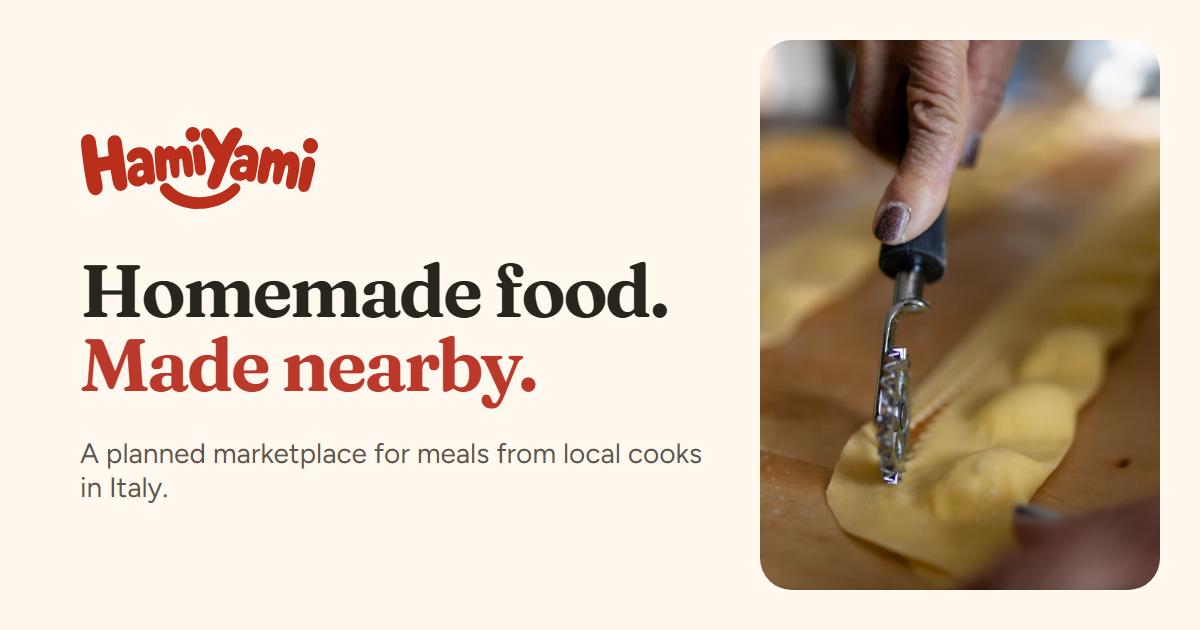
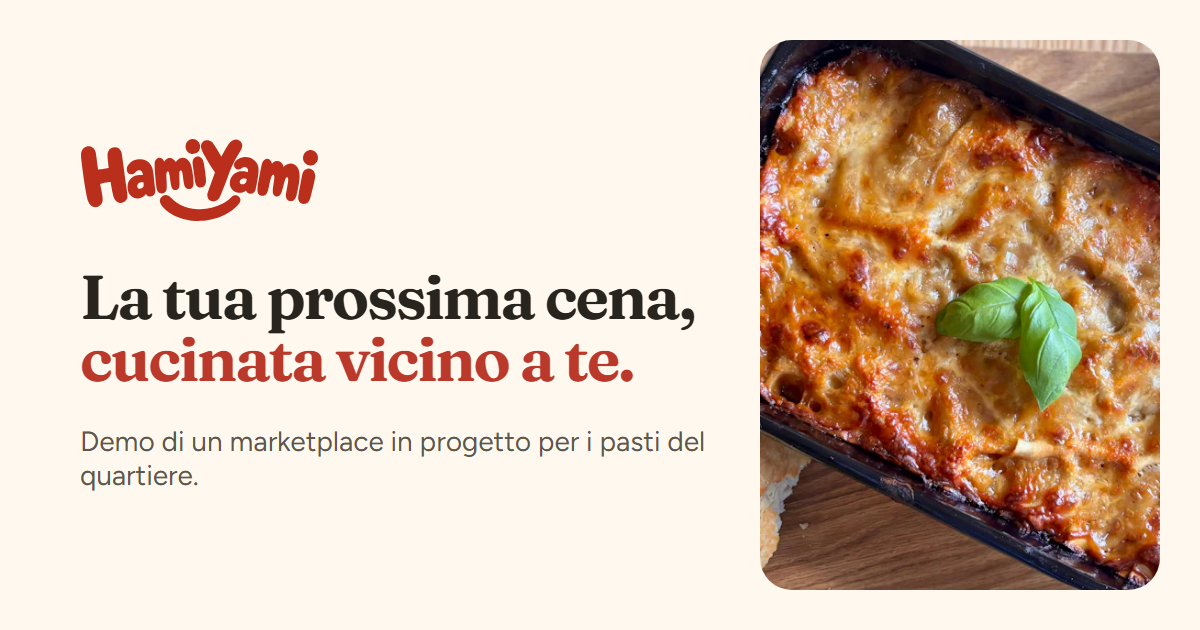
Refresh the sharing image and add optional social previews
The sharing image now carries the Italian dinner tagline over a finished
dish. Open Graph tags are emitted only when SITE_URL is set, since they
need absolute URLs. Restores the og-image render script.

diff --git a/scripts/og-image.html b/scripts/og-image.html
@@ -3,7 +3,7 @@
   Source for public/assets/images/og-image.png (1200×630 social sharing image).
   Re-render after edits with: npm run og-image   (needs Microsoft Edge or Chrome installed)
 -->
-<html lang="en">
+<html lang="it">
 <head>
   <meta charset="utf-8">
   <style>
@@ -19,7 +19,7 @@
     }
     .copy { display: flex; flex-direction: column; justify-content: center; padding: 0 36px 0 80px; }
     .wordmark { display: block; align-self: flex-start; width: auto; height: 84px; }
-    h1 { margin: 44px 0 0; font-family: "Fraunces", serif; font-weight: 650; font-size: 74px; line-height: 1; letter-spacing: -0.035em; }
+    h1 { margin: 44px 0 0; font-family: "Fraunces", serif; font-weight: 650; font-size: 62px; line-height: 1; letter-spacing: -0.035em; }
     h1 span { color: #BA392B; }
     p { margin: 34px 0 0; font-size: 28px; color: #5E574C; }
     .media { position: relative; }
@@ -29,9 +29,9 @@
 <body>
   <div class="copy">
     <img class="wordmark" src="../public/assets/brand/hamiyami-wordmark.svg" alt="">
-    <h1>Homemade food.<br><span>Made nearby.</span></h1>
-    <p>A planned marketplace for meals from local cooks in Italy.</p>
+    <h1>La tua prossima cena,<br><span>cucinata vicino a te.</span></h1>
+    <p>Demo di un marketplace in progetto per i pasti del quartiere.</p>
   </div>
-  <div class="media"><img src="../public/assets/images/hero-960.webp" alt=""></div>
+  <div class="media"><img src="../public/assets/images/lasagna-800.webp" alt=""></div>
 </body>
 </html>

diff --git a/src/app/[locale]/layout.tsx b/src/app/[locale]/layout.tsx
@@ -11,10 +11,24 @@ import { figtree, fraunces } from "../fonts";
 import "@/shared/styles/globals.css";
 
 export async function generateMetadata({ params }: LayoutProps<"/[locale]">): Promise<Metadata> {
-  const { t } = await getI18n(params);
+  const { t, locale } = await getI18n(params);
+  // Social previews need absolute URLs, so they are added only once the public address is known.
+  const siteUrl = process.env.SITE_URL;
   return {
     title: { default: "HamiYami — demo", template: "%s · HamiYami" },
     description: t.meta.siteDescription,
+    ...(siteUrl
+      ? {
+          metadataBase: new URL(siteUrl),
+          openGraph: {
+            type: "website",
+            siteName: "HamiYami",
+            locale: locale === "it" ? "it_IT" : "en_GB",
+            description: t.meta.siteDescription,
+            images: [{ url: "/assets/images/og-image.png", width: 1200, height: 630, alt: t.footer.tagline }],
+          },
+        }
+      : {}),
     // Prelaunch demo: keep it out of search results until the pilot checklist in README.md is done.
     robots: { index: false, follow: false },
     icons: {
